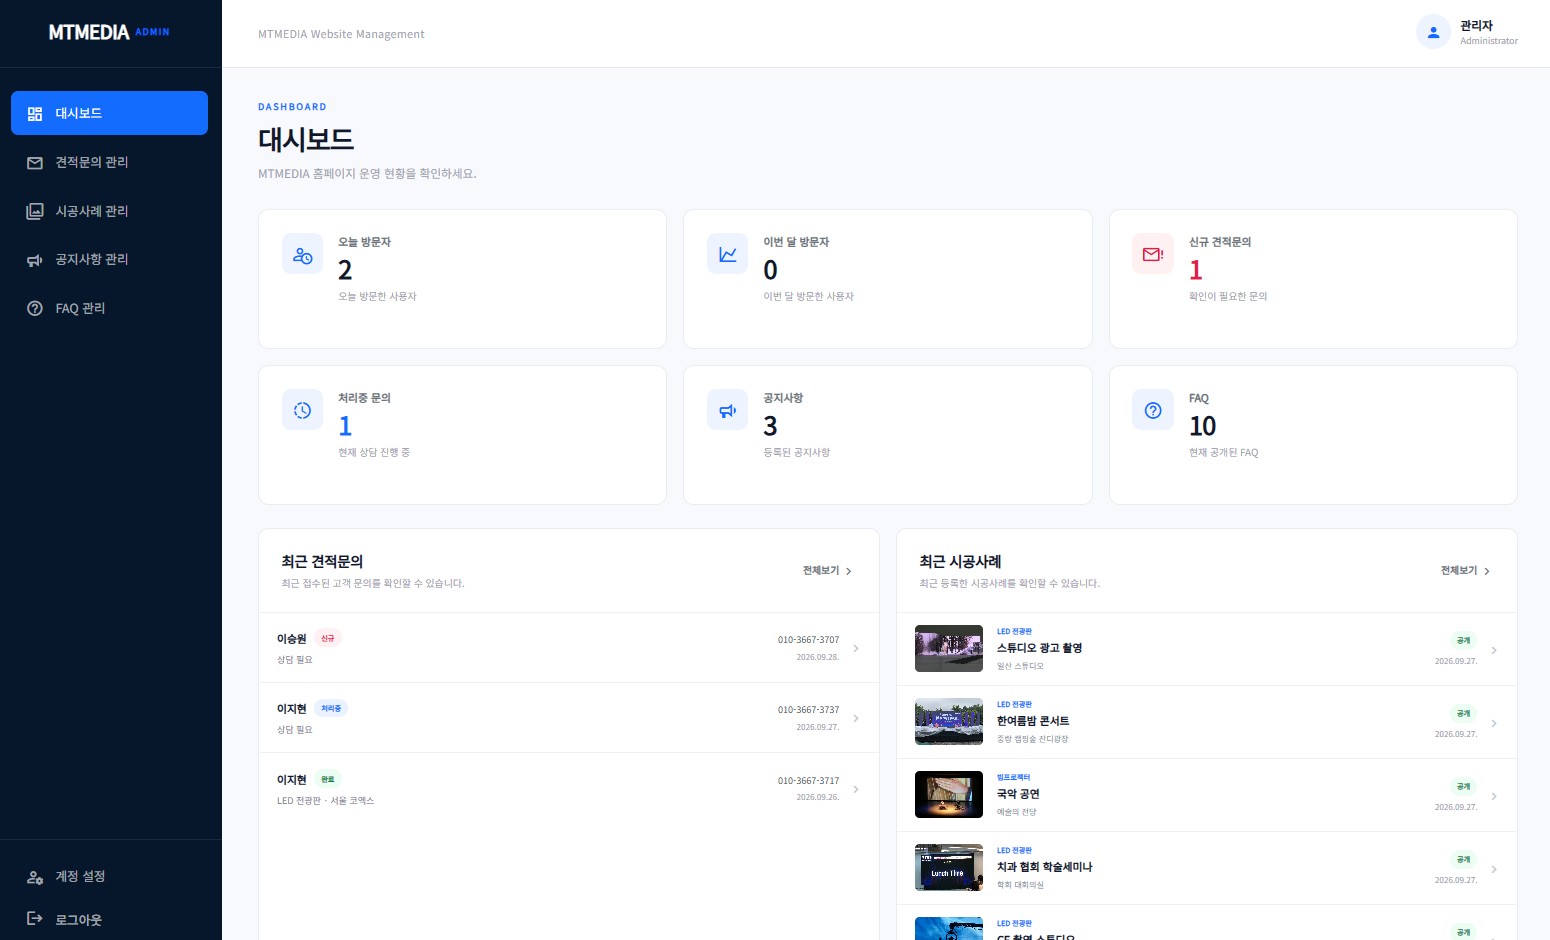
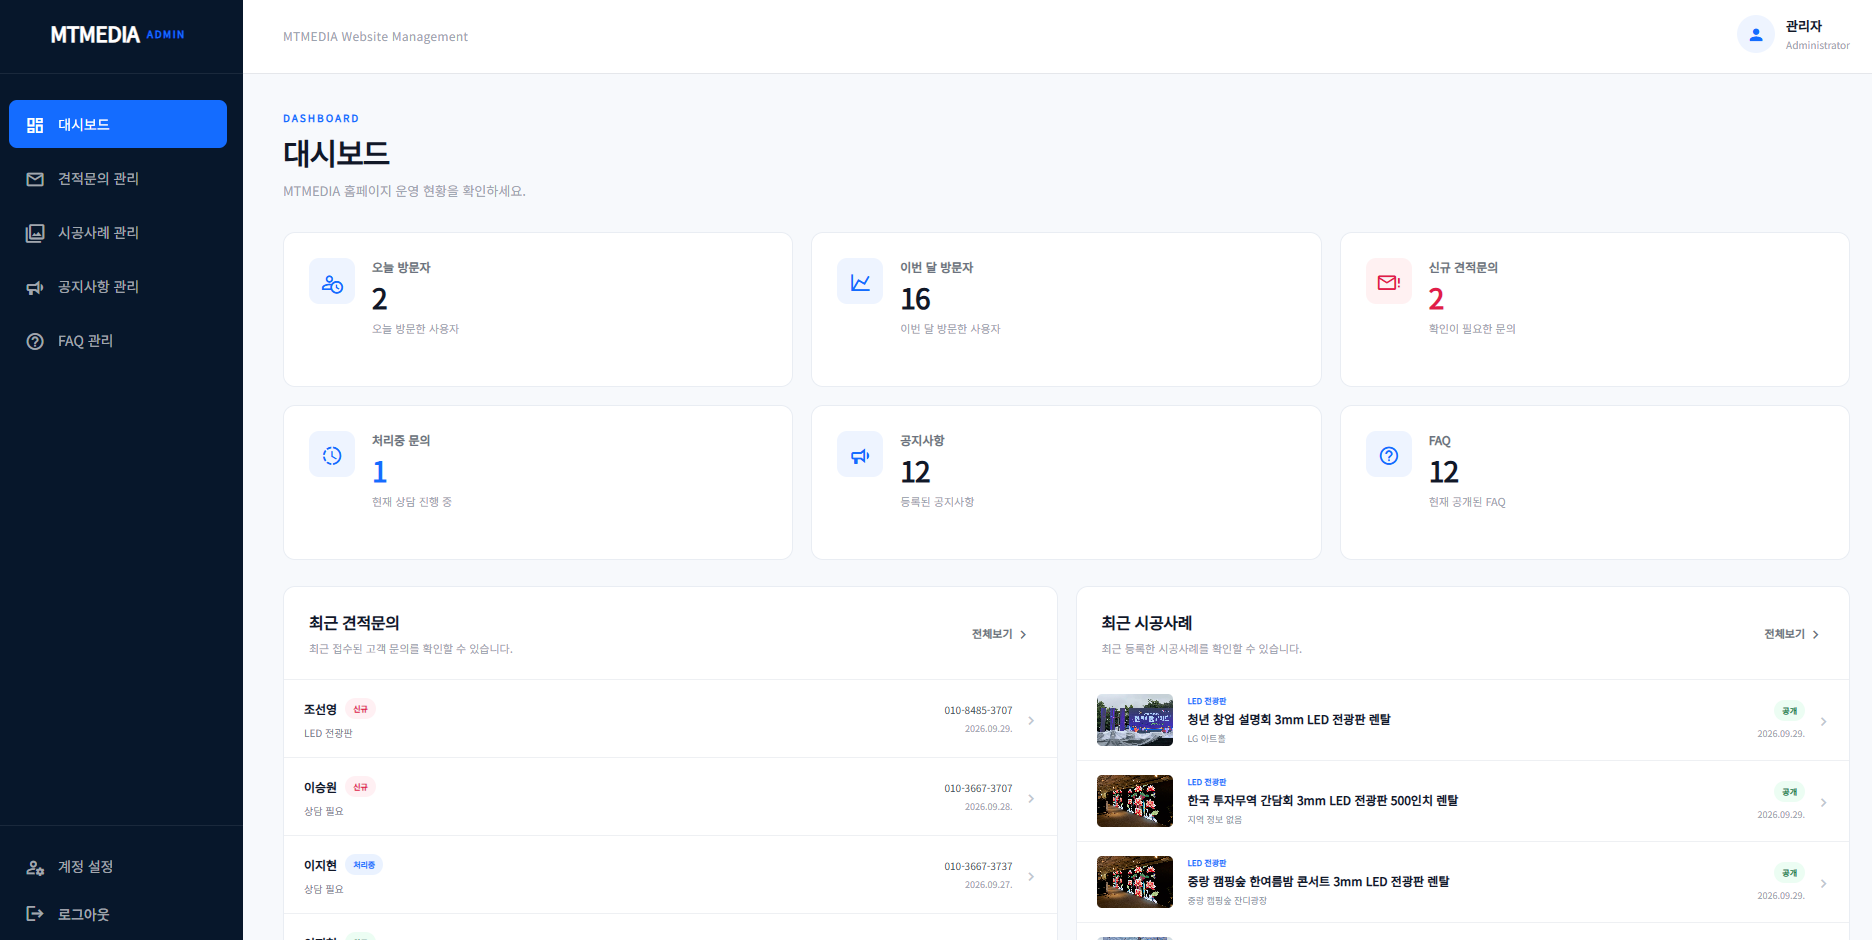
Update portfolio

diff --git a/index.html b/index.html
@@ -444,6 +444,49 @@
                                 </div>
                             </div>
                         </div>
+
+                        <!-- 개인 프로젝트 -->
+                        <div class="career-divider">
+                            <span>PERSONAL PROJECT</span>
+                        </div>
+
+                        <div class="career-item career-item-personal">
+                            <!-- <div class="career-left career-left-personal">
+                                <div class="career-period">2026.09</div>
+
+                                <div class="career-personal-icon">
+                                    <i class="mdi mdi-web"></i>
+                                </div>
+
+                                <h3>MTMEDIA</h3>
+                                <p>기업 홈페이지 / 관리자 시스템</p>
+                            </div> -->
+
+                            <div class="career-left">
+                                <div class="career-period">2026.09</div>
+
+                                <div class="career-logo">
+                                    <img src="img/mtmedia.png" alt="엠티미디어 로고">
+                                </div>
+
+                                <span class="career-personal-label">PERSONAL PROJECT</span>
+
+                                <p>기업 홈페이지 / 관리자 시스템</p>
+                            </div>
+
+                            <div class="career-right career-right-personal">
+                                <div class="career-project career-project-personal" data-modal="modal-mtmedia">
+                                    <div>
+                                        <span class="career-project-badge">FULL STACK</span>
+                                        <h4>MTMEDIA 기업 홈페이지 및 관리자 시스템 구축</h4>
+                                        <p>LED 전광판·빔프로젝터 렌탈 업체의 서비스 소개와 고객문의, 콘텐츠 관리를 위한 웹사이트 구축</p>
+                                    </div>
+
+                                    <span>2026.09</span>
+                                    <i class="mdi mdi-chevron-right"></i>
+                                </div>
+                            </div>
+                        </div>
                     </div>
                 </div>
             </div>
@@ -1132,26 +1175,30 @@
                                     <ul class="py-1">
                                         <li>
                                             <i class="mdi mdi-check"></i>
-                                            기업 홍보를 위한 홈페이지 개발 
+                                            기업 및 주요 서비스 · 제품 소개
                                         </li>
                                         <li>
                                             <i class="mdi mdi-check"></i>
-                                            PC · 태블릿 · 모바일 반응형 UI
+                                            시공사례 · 공지사항 · FAQ 조회
                                         </li>
                                         <li>
                                             <i class="mdi mdi-check"></i>
-                                            실제 기업 도메인을 통한 운영 서비스 제공
+                                            온라인 견적문의 접수
+                                        </li>
+                                        <li>
+                                            <i class="mdi mdi-check"></i>
+                                            실제 기업 도메인을 통한 웹서비스 운영
                                         </li>
                                     </ul>
                                 </p>
                                 <span class="chip">설명</span> <br>
                                 <ul class="py-1 info-list"> 
-                                    <li>React 기반 기업 홈페이지 개발</li>
+                                    <li>React 기반 기업 홈페이지 및 반응형 UI 개발</li>
                                     <li>Node.js · Express 기반 REST API 연동</li>
-                                    <li>PostgreSQL 기반 시공사례, 견적문의, 공지사항, FAQ 데이터 연동</li>
+                                    <li>PostgreSQL 기반 시공사례 · 공지사항 · FAQ · 견적문의 데이터 조회</li>
                                     <li>Cloudflare R2에 저장된 시공사례 이미지 조회 및 화면 출력</li>
-                                    <li>Cloudflare Pages와 Render를 활용해 프론트엔드·백엔드 운영 환경 구축</li>
-                                    <li>실제 도메인 및 API·이미지 서브도메인을 연결하여 서비스 배포</li>
+                                    <li>Cloudflare Pages · Render 기반 프론트엔드/백엔드 배포</li>
+                                    <li>실제 도메인과 API·이미지 서브도메인을 연결하여 서비스 배포</li>
                                 </ul>
                                 <div class="project-link">
                                     <i class="mdi mdi-web"></i>
@@ -1241,19 +1288,15 @@
                                         </li>
                                         <li>
                                             <i class="mdi mdi-check"></i>
-                                            공지사항 등록 · 수정 · 삭제
+                                            공지사항 · FAQ 콘텐츠 등록 · 수정 · 삭제
                                         </li>
                                         <li>
                                             <i class="mdi mdi-check"></i>
-                                            FAQ 등록 · 수정 · 삭제
+                                            고객 견적문의 조회 및 처리상태 관리
                                         </li>
                                         <li>
                                             <i class="mdi mdi-check"></i>
-                                            고객 견적문의 조회 및 관리
-                                        </li>
-                                        <li>
-                                            <i class="mdi mdi-check"></i>
-                                            관리자 대시보드를 통한 주요 콘텐츠 관리
+                                            관리자 대시보드 제공(오늘 방문자, 이번달 방문자, 견적문의 현황 등 주요 운영정보 제공)
                                         </li>
                                     </ul>
                                 </p>
@@ -1262,10 +1305,10 @@
                                     <li>React 기반 관리자 전용 웹 페이지 구현</li>
                                     <li>Node.js · Express 기반 관리자 REST API 구축</li>
                                     <li>JWT 기반 로그인 인증 및 관리자 전용 API 접근 제어</li>
-                                    <li>PostgreSQL을 활용한 시공사례·공지사항·FAQ·견적문의 데이터 관리</li>
+                                    <li>PostgreSQL 기반 시공사례 · 공지사항 · FAQ · 견적문의 CRUD 구현</li>
                                     <li>Multer를 활용한 다중 이미지 업로드 처리</li>
-                                    <li>Cloudflare R2와 연동하여 시공사례 썸네일 및 상세 이미지 저장·삭제 기능 구현</li>
-                                    <li>Multer를 활용한 다중 이미지 업로드 처리</li>
+                                    <li>Cloudflare R2 연동을 통한 썸네일 · 상세 이미지 저장 및 삭제</li>
+                                    <li>관리자 콘텐츠 목록의 검색·필터·페이징 기능 구현</li>
                                     <li>Render 환경에 백엔드 API를 배포하고 실제 운영 홈페이지와 연동</li>
                                 </ul>
                                 <div class="project-link">
@@ -1291,7 +1334,7 @@
                         <div class="box">
                             <div class="slide-box">
                                 <div class="slide-container" id="slide09">
-                                    <div class="slide"><img src="img/mtmedia_21.png" alt=""></div>
+                                    <div class="slide"><img src="img/mtmedia_20.png" alt=""></div>
                                     <div class="slide"><img src="img/mtmedia_22.png" alt=""></div>
                                     <div class="slide"><img src="img/mtmedia_23.png" alt=""></div>
                                     <div class="slide"><img src="img/mtmedia_24.png" alt=""></div>
@@ -1309,7 +1352,7 @@
                         </div>
                     </div>
                     <div class="slide-nav slide09-nav v-pc" id="slide09-nav-pc">
-                        <div class="slide"><img src="img/mtmedia_21.png" alt=""></div>
+                        <div class="slide"><img src="img/mtmedia_20.png" alt=""></div>
                         <div class="slide"><img src="img/mtmedia_22.png" alt=""></div>
                         <div class="slide"><img src="img/mtmedia_23.png" alt=""></div>
                         <div class="slide"><img src="img/mtmedia_24.png" alt=""></div>
@@ -1904,6 +1947,43 @@
                     <li>통합 거래소 체계에 맞춘 기존 조회 로직 및 SQL 리팩토링</li>
                     <li>KRX·NXT 투자정보 데이터 마이그레이션</li>
                     <li>통합 전·후 데이터 정합성 검증 및 기능 테스트</li>
+                </ul>
+            </div>
+        </div>
+
+        <div class="career-modal" id="modal-mtmedia">
+            <div class="modal-content">
+                <button class="modal-close">&times;</button>
+                <h2>MTMEDIA 기업 홈페이지 및 관리자 시스템 구축</h2>
+                <p class="modal-period">2025.09</p>
+
+                <div class="project-skills">
+                    <span class="skill react">React</span>
+                    <span class="skill js">JavaScript</span>
+                    <span class="skill node">Node.js</span>
+                    <span class="skill express">Express</span>
+                    <span class="skill postgres">PostgreSQL</span>
+                    <span class="skill r2">Cloudflare R2</span>
+                    <span class="skill cloudflare">Cloudflare Pages</span>
+                </div>
+                <h3>프로젝트 소개</h3>
+                <p class="modal-desc">
+                    LED 전광판·빔프로젝터 렌탈 업체의 서비스 소개와 고객문의, 콘텐츠 관리를 위한 웹사이트 구축
+                </p>
+                <h3>주요 성과</h3>
+                <ul class="info-list">
+                    <li>서비스·제품·시공사례·공지사항·FAQ·견적문의를 제공하는 반응형 기업 홈페이지 구축</li>
+                    <li>관리자가 시공사례·공지사항·FAQ·견적문의를 직접 관리할 수 있는 관리자 시스템 구현</li>
+                    <li>프론트엔드·백엔드·DB·이미지 스토리지 구성부터 실제 도메인 연결 및 배포까지 웹서비스 전 과정 구축</li>
+                </ul>
+                <h3>수행 업무</h3>
+                <ul class="info-list">
+                    <li>React 기반 사용자 페이지 및 관리자 페이지 UI 개발</li>
+                    <li>Node.js·Express REST API와 PostgreSQL을 연동한 콘텐츠 CRUD 기능 구현</li>
+                    <li>JWT 기반 관리자 로그인 및 관리자 페이지 접근 제어 구현</li>
+                    <li>Cloudflare R2를 활용한 시공사례 이미지 업로드·수정·삭제 기능 구현</li>
+                    <li>콘텐츠 목록의 검색·필터·페이징 기능 구현</li>
+                    <li>Cloudflare Pages·Render를 활용한 서비스 배포 및 도메인·API 연동</li>
                 </ul>
             </div>
         </div>

diff --git a/css/style.css b/css/style.css
@@ -1571,9 +1571,6 @@ footer i { font-size: 40px; }
     align-items:start;
 }
 
-/* =====================================================
-   Left
-===================================================== */
 .career-left{
 
     position:sticky;
@@ -1619,9 +1616,6 @@ footer i { font-size: 40px; }
     font-size:15px;
 }
 
-/* =====================================================
-   Right
-===================================================== */
 .career-right{
     border-left:2px solid #dcdfe8;
     padding-left:40px;
@@ -1637,6 +1631,116 @@ footer i { font-size: 40px; }
     position:absolute;
     left:-7px;
     top:8px;
+}
+
+.career-project {
+    display: grid;
+    grid-template-columns: minmax(0, 1fr) 150px 20px;
+    gap: 25px;
+    align-items: center;
+    margin-bottom: 18px;
+    padding: 26px 24px;
+    border: 1px solid #eceef5;
+    border-radius: 18px;
+    background: #ffffff;
+    cursor: pointer;
+    transition: 0.25s;
+}
+
+.career-project:hover {
+    transform: translateY(-5px);
+    box-shadow: 0 12px 35px rgba(120, 130, 164, 0.15);
+}
+
+/* -------------------- Personal Project -------------------- */
+.career-divider {
+    display: flex;
+    align-items: center;
+    gap: 18px;
+    margin: 65px 0 45px;
+}
+
+.career-divider::before,
+.career-divider::after {
+    height: 1px;
+    flex: 1;
+    background: #e6e8ef;
+    content: "";
+}
+
+.career-divider span {
+    color: #7882a4;
+    font-size: 11px;
+    font-weight: 700;
+    letter-spacing: 2px;
+    white-space: nowrap;
+}
+
+.career-item-personal {
+    padding-top: 5px;
+}
+
+.career-left-personal {
+    position: static;
+}
+
+.career-personal-icon {
+    display: flex;
+    width: 120px;
+    height: 120px;
+    align-items: center;
+    justify-content: center;
+    margin: 0 auto 18px;
+    border: 1px solid #e2e6f0;
+    border-radius: 28px;
+    background: linear-gradient(145deg, #f8f9ff, #eef1f8);
+    box-shadow: 0 12px 32px rgba(120, 130, 164, 0.12);
+}
+
+.career-personal-icon i {
+    color: #7882a4;
+    font-size: 52px;
+}
+
+.career-personal-label {
+    display: inline-flex;
+    align-items: center;
+    justify-content: center;
+    margin-bottom: 12px;
+    padding: 6px 10px;
+    border-radius: 999px;
+    background: #f0f2f8;
+    color: #7882a4;
+    font-size: 10px;
+    font-weight: 700;
+    letter-spacing: 1px;
+}
+
+.career-right-personal::before {
+    background: #4f5b85;
+}
+
+.career-project-personal {
+    border-color: #dfe3ee;
+    background: linear-gradient(135deg, #ffffff 0%, #f8f9fd 100%);
+}
+
+.career-project-personal:hover {
+    border-color: #c8cddd;
+    box-shadow: 0 14px 38px rgba(79, 91, 133, 0.16);
+}
+
+.career-project-badge {
+    display: inline-flex;
+    width: fit-content;
+    margin-bottom: 10px;
+    padding: 5px 8px;
+    border-radius: 5px;
+    background: #eef0f7;
+    color: #4f5b85;
+    font-size: 10px;
+    font-weight: 700;
+    letter-spacing: 1px;
 }
 
 /* =====================================================
